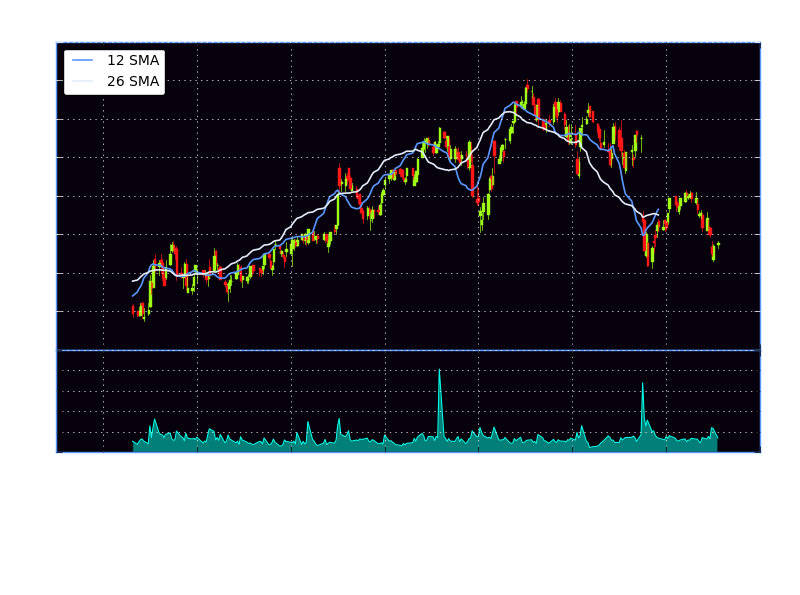
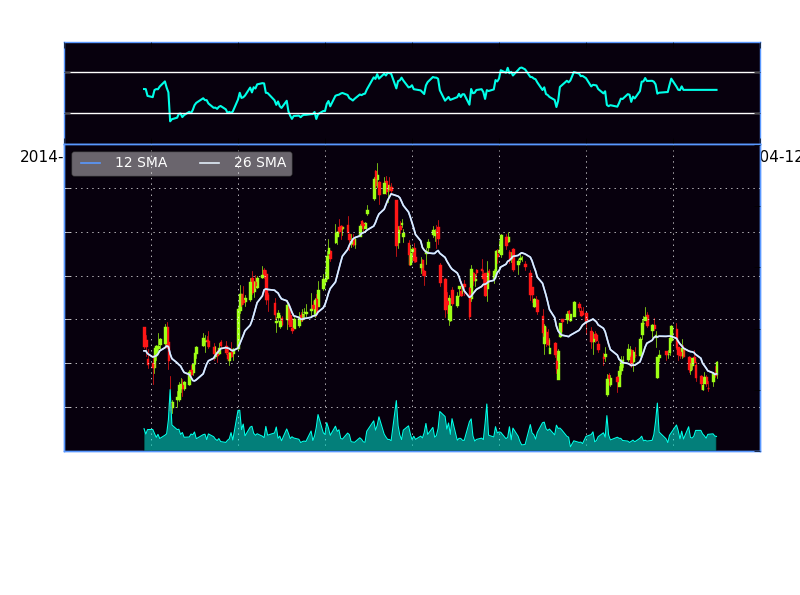
ema function

diff --git a/mainChart.py b/mainChart.py
@@ -40,6 +40,12 @@ def pullData(stock, m, d, y):
 		print 'main loop', str(e)
 
 ##################################################################
+#                         Scraper Call
+##################################################################
+# for stock in stocksToPull:
+# 	pullData(stock, 3, 18, 2014)
+
+##################################################################
 #                 RSI calculator (using numpy)
 ##################################################################
 def rsiCalc(prices, n=14):
@@ -68,9 +74,6 @@ def rsiCalc(prices, n=14):
 
 	return rsi
 
-
-
-
 ##################################################################
 #                 SMA calculator (using numpy)
 ##################################################################
@@ -80,6 +83,27 @@ def simpleMovingAvg(values, window):
 	# smoother (convolve smooths)
 	smas = np.convolve(values, weights, 'valid')
 	return smas
+
+##################################################################
+#                 EMA calculator (using numpy)
+##################################################################
+def ema(values, window):
+	weights = np.exp(np.linspace(-1.,0.,window))
+	weights /= weights.sum()
+	a = np.convolve(values, weights, mode='full')[:len(values)]
+	a[:window] = a[window]
+	return a
+	
+
+##################################################################
+#                 MACD calculator (using numpy)
+##################################################################
+def macdCalc(x, slow=26, fast=12):
+	'''
+	macd line = 12ema - 26 ema
+	signal = 9ema
+	histogram = macd
+	'''
 
 ##################################################################
 #       Grapher, params (Name of stock, SMA1 day, SMA2 day)
@@ -103,7 +127,7 @@ def graphData(stock, SMA1, SMA2):
 
 		# simplemovingavg
 		av1 = simpleMovingAvg(closep, SMA1)
-		av2 = simpleMovingAvg(closep, SMA2)
+		av2 = simpleMovingAvg(closep, SMA1)
 
 		# starting point of sma (since the x day moving average cannot start until x days have first been completed)
 		#TODO ###### NEED TO MAKE DYNAMIC ################
@@ -189,7 +213,7 @@ def graphData(stock, SMA1, SMA2):
 
 		ax1v = ax1.twinx()
 		ax1v.plot(date[:startingPoint], volume[:startingPoint], '#00ffe8', linewidth=.8)
-		ax1v.fill_between(date, 0, volume, facecolor='#00ffe8', alpha=.5)
+		ax1v.fill_between(date[:startingPoint], 0, volume[:startingPoint], facecolor='#00ffe8', alpha=.5)
 
 		# Mostly styling
 		ax1v.axes.yaxis.set_ticklabels([])

diff --git a/subprocess.py b/subprocess.py
@@ -7,7 +7,7 @@ class MyFrame(wx.Frame):
     """make a frame, inherits wx.Frame"""
     def __init__(self):
         # create a frame, no parent, default to wxID_ANY
-        wx.Frame.__init__(self, None, wx.ID_ANY, 'Niggua',
+        wx.Frame.__init__(self, None, wx.ID_ANY, 'LDSKFJ',
             pos=(300, 150), size=(320, 250))
         self.SetBackgroundColour("black")
         
